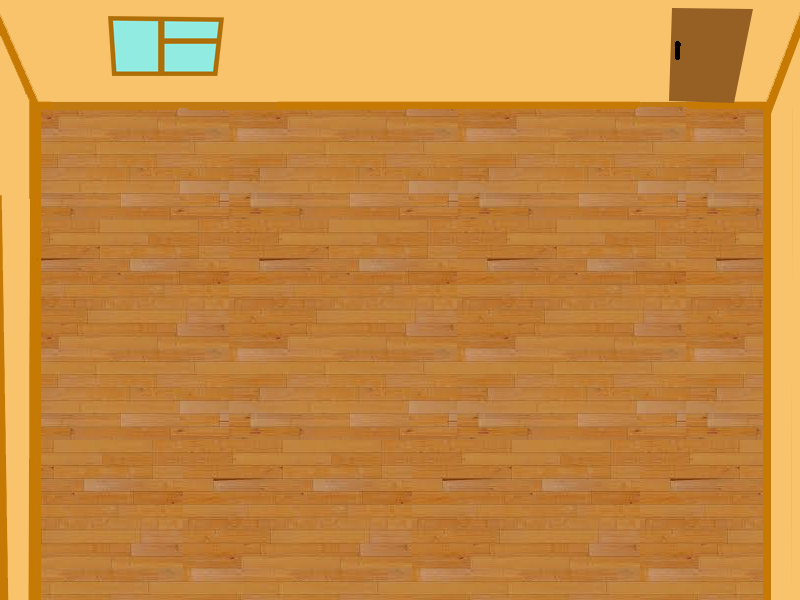
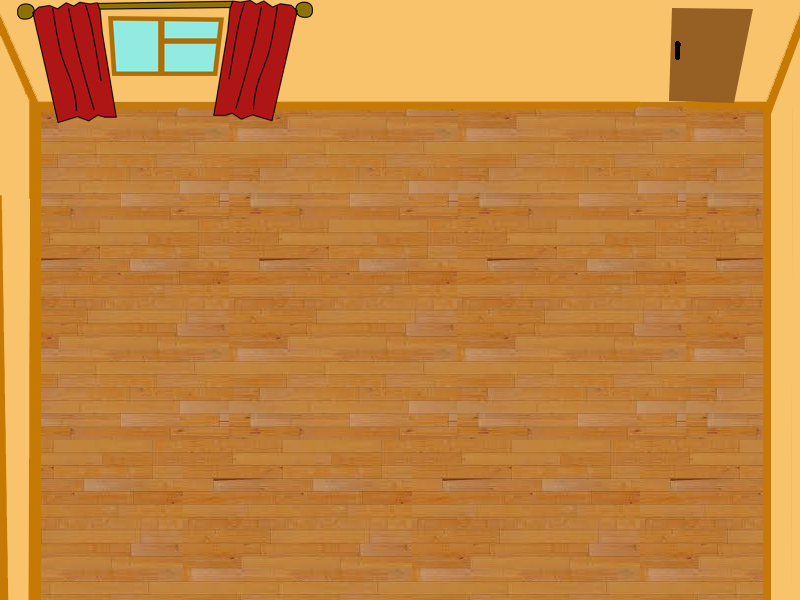
remove shtori, decrease lifetimes

Changed region(s): [[0.0, 0.0, 0.4062, 0.21]]

diff --git a/game/src/Resource.js b/game/src/Resource.js
@@ -8,42 +8,35 @@ var pee_config = [
 		after:"game/res/armchair_after.png",
 		x: 300,
 		y: 240,
-		level: 3
+		level: 1
 	},
 	{
 		before:"game/res/tv_before.png",
 		after:"game/res/tv_after.png",
 		x: 120,
 		y: 240,
-		level: 5
+		level: 3
 	},
 	{
 		before:"game/res/fish_before.png",
 		after:"game/res/fish_after.png",
 		x: 600,
 		y: 140,
-		level: 2
-	},
-	{
-		before:"game/res/curtains_before.png",
-		after:"game/res/curtains_after.png",
-		x: 166,
-		y: 540,
-		level: 3
+		level: 1
 	},
 	{
 		before:"game/res/flower_before.png",
 		after:"game/res/flower_after.png",
 		x: 350,
 		y: 470,
-		level: 2
+		level: 1
 	},
 	{
 		before:"game/res/boots_before.png",
 		after:"game/res/boots_after.png",
 		x: 740,
 		y: 370,
-		level: 1
+		level: 0.5
 	},
 ];
 
